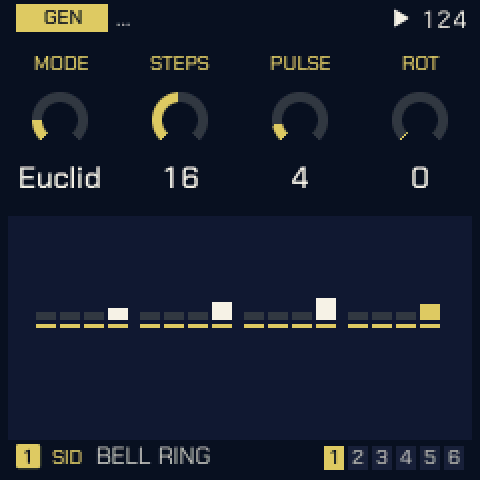
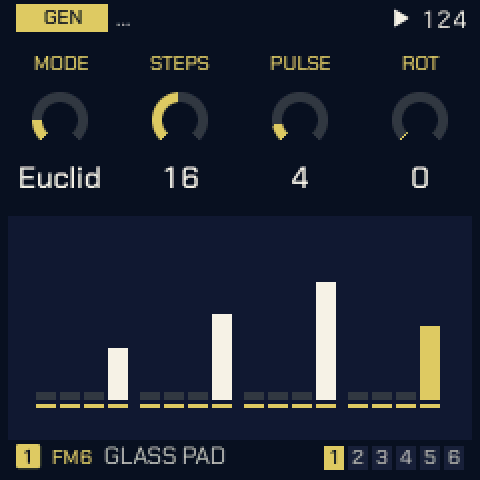
Gallery: the 2.0 screens in the device engine set
gallery_render renders 36 screens with FM6, TRIO and DRUM (no SID, PHYS,
CZ-1 or Prophet): every generator, the OCT+ layers, STEP EVOLVE, LENGTH,
MATRIX, the help card, FM6, TRIO, DRUM, PATTERNS and MIXER. edit_sid goes.

Claude-Session: https://claude.ai/code/session_01BpfmmeNBDntHrx6VWUu9nH

Changed region(s): [[0.0625, 0.625, 0.9375, 0.875], [0.0938, 0.9062, 0.4688, 0.9688], [0.6562, 0.5625, 0.7188, 0.625]]

diff --git a/tests/gallery_render.c b/tests/gallery_render.c
@@ -1,28 +1,34 @@
 /* SPDX-License-Identifier: GPL-3.0-only */
-/* The README's Visual Reference Gallery: the real drawing code (tests/ui_render.c's scenes) in the release's
- * engine set (no FM6, CZ-1 or Prophet), the default palette (SMALTI), as PPM in OUTDIR/ppm (240 x 240; the README's PNGs are these 2x, nearest).
- *   cc -O1 -w -DMELODEE_USB_AUDIO=1 -DMELODEE_FM6=0 -DMELODEE_CZ=0 -DMELODEE_PROPHET=0 \
+/* The README's Visual Reference Gallery and the manual's pictures: the real drawing code (tests/ui_render.c's scenes)
+ * in the device build's engine set (FM6, TRIO, DRUM: no SID, PHYS, CZ-1 or Prophet), the default palette (SMALTI),
+ * as PPM in OUTDIR/ppm (240 x 240; the PNGs in assets/gallery are these 2x, nearest).
+ *   cc -O1 -w -DMELODEE_USB_AUDIO=1 -DMELODEE_SID=0 -DMELODEE_PHYS=0 -DMELODEE_CZ=0 -DMELODEE_PROPHET=0 \
  *      -Ibuild/gen -Ifirmware/src -Itests -o build/gallery_render tests/gallery_render.c -lm
  *   mkdir -p build/gallery/ppm && build/gallery_render build/gallery
- * (README.md shows these as assets/gallery/<name>.png) */
+ * (README.md, MANUAL.md and the project page show these as assets/gallery/<name>.png) */
 #define UI_RENDER_NO_MAIN 1
 #include "ui_render.c"
 
-enum { G_SCENE, G_TRIO, G_PHYS, G_MODE_STEP, G_MODE_ARP, G_FORM };   /* (ARP: the same page, MODE Arp) */
+enum { G_SCENE, G_TRIO, G_MODE_STEP, G_MODE_ARP, G_FORM };   /* (ARP: the same page, MODE Arp) */
 typedef struct { const char *name; int kind; int scene; } gshot_t;
 static const gshot_t SHOTS[] = {
-    {"home", G_SCENE, S_HOME},
-    {"seq_mode", G_MODE_STEP, 0},
+    {"home", G_SCENE, S_HOME}, {"seq_mode", G_MODE_STEP, 0},
     {"gen_turing", G_SCENE, S_GEN_TURING}, {"gen_euclid", G_SCENE, S_GEN_EUCLID},
     {"gen_markov", G_SCENE, S_GEN_MARKOV}, {"gen_morph", G_SCENE, S_GEN_MORPH},
-    {"gen_grids", G_SCENE, S_GEN_GRIDS}, {"gen_bounce", G_SCENE, S_GEN_BOUNCE},
+    {"gen_grids", G_SCENE, S_GEN_GRIDS}, {"gen_grids_oct", G_SCENE, S_GEN_GRIDS_OCT},
+    {"gen_bounce", G_SCENE, S_GEN_BOUNCE}, {"gen_fall", G_SCENE, S_GEN_FALL},
     {"gen_awake", G_SCENE, S_GEN_AWAKE}, {"gen_poly", G_SCENE, S_GEN_POLY},
-    {"gen_evolve", G_SCENE, S_GEN_EVOLVE}, {"gen_tweak", G_SCENE, S_GEN_TWEAK},
-    {"gen_tweak2", G_SCENE, S_GEN_TWEAK2}, {"organic", G_SCENE, S_ORGANIC},
-    {"mods_live", G_SCENE, S_MODS_LIVE_GEN}, {"matrix", G_SCENE, S_MATRIX},   /* (1.3.3: TWEAK 2, ORGANIC, live mods) */
-    {"mod_shortcut", G_SCENE, S_MOD_SHORTCUT}, {"cords", G_SCENE, S_CORDS},
-    {"help", G_SCENE, S_HELP}, {"form", G_FORM, 0},
-    {"edit_sid", G_SCENE, S_EDIT_SID}, {"edit_trio", G_TRIO, 0}, {"edit_phys", G_PHYS, 0},
+    {"gen_quad", G_SCENE, S_GEN_QUAD}, {"gen_constel", G_SCENE, S_GEN_CONSTEL},
+    {"gen_series", G_SCENE, S_GEN_SERIES}, {"gen_chord", G_SCENE, S_GEN_CHORD},
+    {"gen_chord_oct", G_SCENE, S_GEN_CHORD_OCT}, {"gen_chord_user", G_SCENE, S_GEN_CHORD_USER},
+    {"gen_evolve", G_SCENE, S_GEN_EVOLVE}, {"step_evolve", G_SCENE, S_GEN_STEP_EVOLVE},
+    {"form", G_FORM, 0}, {"gen_tweak", G_SCENE, S_GEN_TWEAK}, {"gen_tweak2", G_SCENE, S_GEN_TWEAK2_COIN},
+    {"gen_length", G_SCENE, S_GEN_LENGTH},
+    {"cords", G_SCENE, S_CORDS}, {"mods_live", G_SCENE, S_MODS_LIVE_GEN}, {"matrix", G_SCENE, S_MATRIX},
+    {"organic", G_SCENE, S_ORGANIC}, {"mod_shortcut", G_SCENE, S_MOD_SHORTCUT},
+    {"help", G_SCENE, S_HELP_ZOOM},
+    {"edit_fm6", G_SCENE, S_FM6_ALG5}, {"fm6_eg", G_SCENE, S_FM6_EG}, {"edit_trio", G_TRIO, 0},
+    {"drum", G_SCENE, S_DRUM}, {"patterns", G_SCENE, S_PATGRID}, {"mixer", G_SCENE, S_MIXER},
 };
 
 int main(int argc, char **argv)
@@ -41,7 +47,7 @@ int main(int argc, char **argv)
         } else if (g->kind == G_FORM) {                 /* FORM: TURING's track, its sections */
             setup(S_GEN_TURING);
             go_title("FORM");
-        } else { setup(S_EDIT_SID); eng(g->kind == G_TRIO ? 6u : ENGI_PHYS); go_title("EDIT 1"); }
+        } else { setup(S_HOME); eng(6u); go_title("EDIT 1"); }   /* TRIO */
         pal(UI_DEFAULT_INDEX);
         draw(g->kind == G_SCENE ? g->scene : -1);
         write_ppm(out, UI_PALETTES[UI_DEFAULT_INDEX].name, g->name);

diff --git a/RECIPES.md b/RECIPES.md
@@ -1,0 +1,279 @@
+# Tessera recipes and tips
+
+Short, tested ways to get somewhere with Tessera 2.0. Each uses only what the firmware has; the page and knob names
+are the ones on the screen, and [MANUAL.md](MANUAL.md) explains each page in full. Where a step names a page, tap
+the button in brackets until it shows: GEN, EVOLVE, FORM, TWEAK, TWEAK 2 and LENGTH are under **SEQ**, MODS, MATRIX
+and ORGANIC under **LFO**, SCL and CHORD under **SCL**.
+
+**Recipes**
+
+- [A first generative patch in a minute](#a-first-generative-patch-in-a-minute)
+- [A drone that breathes](#a-drone-that-breathes)
+- [Chords that lead, melodies that follow (QNT CHRD)](#chords-that-lead-melodies-that-follow-qnt-chrd)
+- [Your own progression (CHORD USER)](#your-own-progression-chord-user)
+- [Two tracks answering each other (BRANCH)](#two-tracks-answering-each-other-branch)
+- [A harmony line that follows (FOLLOW)](#a-harmony-line-that-follows-follow)
+- [Grids: a groove with fills](#grids-a-groove-with-fills)
+- [Grids: variations that repeat (FORM)](#grids-variations-that-repeat-form)
+- [Grids: movement that repeats (an LFO on X or Y)](#grids-movement-that-repeats-an-lfo-on-x-or-y)
+- [Polyrhythms: POLY and QUAD](#polyrhythms-poly-and-quad)
+- [Notes that travel between tracks (QUAD columns)](#notes-that-travel-between-tracks-quad-columns)
+- [A melody you can come back to (CONSTELLATION)](#a-melody-you-can-come-back-to-constellation)
+- [A slow lead from the infinity series (SERIES)](#a-slow-lead-from-the-infinity-series-series)
+- [Leaves in the wind (FALL)](#leaves-in-the-wind-fall)
+- [Pads from sparse notes (LENGTH HIT)](#pads-from-sparse-notes-length-hit)
+- [Entries and arrangements (COND and FORM)](#entries-and-arrangements-cond-and-form)
+- [From generator to pattern (print, then STEP EVOLVE)](#from-generator-to-pattern-print-then-step-evolve)
+- [Movement over minutes (SLOTH and OCHD)](#movement-over-minutes-sloth-and-ochd)
+- [Driving another synth (MIDI OUT)](#driving-another-synth-midi-out)
+
+**[Tips](#tips)**
+
+---
+
+## A first generative patch in a minute
+
+1. Power on. Track 1 is **GLASS PAD**, track 2 **STRINGS**, track 3 **BELLS**, track 4 the **808 KIT**.
+2. Track 3 (BELLS): **SEQ** for GEN, **MODE** to **TURING**. Press **PLAY**: a looping melody in the track's scale.
+3. **PROB** at about 20: the loop changes a little each time round. At 0 (Lock) it holds.
+4. Track 4: MODE **GRIDS**, **DENS** at 50. A drum groove under it.
+5. Track 3 again, **EVOLVE**: turn **ROLL** a click at a time until you like the line. The number is its seed: write
+   it down and you can always come back to it.
+6. **SCL** on track 3 to change the scale; the generator follows at once.
+
+## A drone that breathes
+
+A held chord that changes slowly, for ambient beds.
+
+1. Track 1 (GLASS PAD): GEN, MODE **CHORD**, **PROG DRONE** (the I chord alone), **BARS 4**, **HIT HOLD**.
+2. Hold **OCT+** on GEN: **CHRD DIA7** (a seventh in the scale), **VOICING OPEN**, **OCTAVES −1** for weight.
+3. **MODS**: a cord from **T1 TORPOR** (SLOTH's slowest circuit) to **T1 CUTOFF**, amount about +30 %.
+4. A second cord from **T1 OCHD 2** to **T1 PAN**, about +20 %: the pad drifts across the stereo field.
+5. For a drone that moves through the scale, set PROG to **WALK**: four chords from the seed, and EVOLVE (EVERY 8,
+   AMOUNT 30) changes one now and then.
+
+## Chords that lead, melodies that follow (QNT CHRD)
+
+1. Track 2 (STRINGS): MODE **CHORD**, **PROG POP**, **BARS 1**, **HIT BEAT**.
+2. Track 3 (BELLS): MODE **MARKOV**, **LEAP 30**, **DENS 60**.
+3. On track 3, **SCL**: **QNT** to **CHRD**. Its notes now snap to the chord track 2 plays, so the melody always
+   fits the harmony. The keys and MIDI input snap too, so you can play along on track 3.
+4. Try PROG **2-5-1** or **CIRCLE** for a jazzier walk; the melody follows every change.
+
+## Your own progression (CHORD USER)
+
+1. A CHORD track: **PROG USER**.
+2. Hold **OCT+** on GEN and play the roots on the keys, one key a chord: for example C, A, F, G. The keys are silent
+   while you enter. Notes outside the scale round down into it.
+3. Let OCT+ go. LENGTH (KNOB 4 with OCT+ held) is now 4; shorten it to leave the last chords out.
+4. The chords' kind comes from **CHRD** (OCT+ layer, KNOB 2): OFF for triads, **DIA7** for sevenths.
+
+## Two tracks answering each other (BRANCH)
+
+1. Two melodic tracks, for example track 1 GLASS PAD and track 3 BELLS. Track 3: MODE **TURING**.
+2. Track 3, **TWEAK 2**: **TO** to **T1 COIN**, **BRANCH 40 %**. About four hits in ten now play on the pad.
+3. **TOGGLE** instead of COIN alternates: at 100 % every other hit goes across, a strict call and response.
+4. **LATCH** tosses once a bar: whole bars swap between the two sounds.
+5. The tosses replay with the seed. A cord from an **OCHD** to **BRANCH** sweeps how often hits cross over.
+
+## A harmony line that follows (FOLLOW)
+
+1. Track 3 plays a generator melody.
+2. Track 2: any generator, then **TWEAK**: **FOLLOW T3**, **SHIFT +2**. Track 2 plays track 3's pitches two scale
+   steps up, in its own scale and its own rhythm.
+3. **SHIFT −7** for a line an octave below in a seven-note scale. **DROP 50** thins the harmony so it only answers
+   now and then.
+
+## Grids: a groove with fills
+
+1. Track 4 (808 KIT): MODE **GRIDS**, **X** and **Y** where you like the groove, **DENS 60**.
+2. Hold **OCT+** on GEN: **TOMS 40** brings in the hits the kick and snare only just miss, so fills follow the
+   groove. Press a **black key** (still holding OCT+) to put that part on **CLAP**, **OPEN HAT**, **RIM** or **BELL**
+   instead.
+3. Still holding OCT+: **HAT 30** thins the hats, **KICK 100** keeps the kick full.
+4. **TWEAK 2**: **COND 4:4** on a second GRIDS track, with the fourth part on CLAP and DENS high, gives a fill on
+   every fourth bar only.
+
+## Grids: variations that repeat (FORM)
+
+FORM turns a GRIDS track into a short song form: sections A, B and C, each a point on the Grids map, played in an
+order such as AABA. A section played again comes back exactly, so the variations repeat.
+
+1. GEN: **MODE GRIDS**; set **X** and **Y** (where on the map) and **DENS** (how full). This is section A.
+2. EVOLVE: **EVERY** sets how long each section lasts: 1, 2, 4, 8 or 16 bars. (Turning FORM on with EVERY OFF sets
+   4 bars.)
+3. FORM: **FORM** picks the order: AB, ABAC, ABCB, AABA, ABCA or AABC. The whole form lasts the sections times
+   EVERY: AB at 2 bars repeats every 4 bars, AABA at 4 bars every 16.
+4. FORM: **CONTR** (contrast) sets how far a new section moves from the one before: low, a small change of pattern;
+   high, a different groove.
+5. For exact repeats, take out the other randomness: EVOLVE **LOCK** at 100 (for GRIDS, LOCK is CHAOS turned round:
+   100 is no chaos), and TWEAK **DROP** and **HUMAN** at 0. A lower LOCK brings back a little variation in every bar
+   on top of the form.
+6. FORM **FLRSH**, TWEAK **SHIFT** and **FOLLOW** do nothing on a GRIDS track (they would change which drum plays).
+
+Shaping the sections by hand:
+
+- While a section plays, turn **X** and **Y**: the section keeps where you leave them and plays from there every
+  time it comes round. (DENS is one setting for the whole track, not per section.)
+- FORM **CLEAR** forgets B and C: the section playing becomes A, and B and C are made again from it by CONTR when
+  they are next reached.
+- **ROLL** on EVOLVE picks the track's seed, which decides how B and C are pushed away from A.
+
+EVOLVE without FORM (EVERY and AMOUNT set, FORM OFF) is the other way round: every EVERY bars X and Y take a random
+step of up to AMOUNT, so the groove keeps wandering and does not come back.
+
+## Grids: movement that repeats (an LFO on X or Y)
+
+A cord from an LFO synced to the bars moves the point across the map in a loop, the same every time. FORM can be on
+as well: the sections set the point, the LFO moves around it.
+
+1. On the GRIDS track, the LFO pages:
+   - **LFO 2**: **SYNC** to **4BAR**, **2BAR** or **1/1** (the loop's length); **TRIG** to **FREE**. TRIG NOTE (the
+     default) restarts the LFO with every note, and a drum track plays nearly every step, so the LFO would hardly
+     move. FREE starts it on PLAY and keeps it in time with the bars.
+   - **LFO**: **WAVE** SIN or TRI sweeps back and forth; SAW ramps and jumps back; SQR swaps between two points (an
+     A/B change every half loop). **PHS** sets where in its loop it starts. **FADE** at 0.
+   - **LFO DEST**: leave PIT, FLT, SHP and AMP at 0, so the LFO moves only the cord, not the drum sound.
+2. **MODS**: a cord with source **LFO** (this track's), destination **G X** (or **G Y**, **G DENS**, **G TOMS**) on
+   this track, and an amount: how far it moves X from the knob's setting.
+3. For a figure on the map, move X and Y with two different loops: a second cord from another track's LFO (with its
+   own SYNC, say 2BAR against 4BAR) to **G Y**. With that track's LFO DEST at 0 its sound stays as it is.
+
+Not for repeating: **DRIFT** wanders freely, and **RAND** and the LFO's **S&H** wave pick new values. They make a
+groove that keeps changing, which is the other use.
+
+## Polyrhythms: POLY and QUAD
+
+**Inside one track (POLY):**
+
+1. MODE **POLY**. Its four notes step on whenever one of its rhythms fires. By default rhythm 1 is **/4** and
+   rhythm 2 **/3**: 4 against 3.
+2. **RHY 3**, then **DIVISION /5**: a third rhythm against the other two. Where rhythms land together the note
+   plays once, louder, so the accents show the pattern.
+3. **SPAN 2** spreads the four notes over two octaves.
+
+**Across tracks (QUAD):**
+
+1. Tracks 1, 2 and 3: MODE **QUAD**. They share one 4 x 4 grid of notes, a row each.
+2. Give each a different **DIV** on **PATTERN**: 1/16, 8T and 1/8. Each plays its row at its own speed, and the
+   rows drift against each other.
+3. Track 3: **DIR PEND** (back and forth) or **RAND**.
+
+## Notes that travel between tracks (QUAD columns)
+
+1. Two or more tracks in **QUAD**, as above.
+2. Hold **OCT+** on GEN. KNOB 1 picks a column, KNOB 2 its **MOVE** (**DOWN**: each note moves a track down,
+   track 4's to track 1), KNOB 3 its **EVERY** (/4: every four steps of the first QUAD track).
+3. Set a different MOVE on another column (UP, or RAND). A phrase on one track now turns up on the next a few beats
+   later, as a canon.
+4. **RANGE** (KNOB 4 on the layer) **1 OCT** folds every row into one octave from the root: tighter, more like a
+   riff.
+5. **LINK** on GEN: a fast QUAD track pulls slower ones along. With DIR **HOLD** a track plays only when the linked
+   one moves it.
+
+## A melody you can come back to (CONSTELLATION)
+
+1. MODE **CONSTL**, **DENS 60**, **SPEED 1/16**. The stars that cross the crosshair play.
+2. Hold **OCT+**: **SIZE 3** catches stars three rows either side, for wider leaps. **LEN 8** and **LOCK 70**: most
+   steps now play the eight-step loop of stars already caught, so a phrase forms and repeats with small changes.
+3. **FILL ARP** fills the steps between stars with the last four stars, low to high and softer.
+4. Let the ship steer itself: **MODS**, a cord with no source (`--`) to **C AUTO** on this track, offset to taste:
+   low values wander slowly, **SEEK** flies to the next star.
+5. **Y** sets where the melody sits; a slow LFO or OCHD on **C Y** moves it up and down the sky.
+
+## A slow lead from the infinity series (SERIES)
+
+1. MODE **SERIES** on a lead sound (BELLS or an FM6 tine). PATTERN **DIV 1/8** or slower.
+2. **INTV 1**: close, stepwise lines. **INTV 3** or **4**: wider leaps (folded back into two octaves).
+3. **LOOP OFF** never repeats; **LOOP 8** repeats eight notes as a motif. EVOLVE (EVERY 8) picks new STARTs, so the
+   motif moves on now and then.
+4. **LENGTH** page: **HIT**, so each note rings until the next one.
+
+## Leaves in the wind (FALL)
+
+1. MODE **BOUNCE**, **BALLS** turned past 4 to **Fall**. Eight leaves fall and play where they land: left low, right
+   high, one in seven an octave down.
+2. **ANGLE** is now **WIND**: the middle is calm; turning it leans the melody low or high. Further out, gusts send the
+   leaves down together, in bursts.
+3. **MODS**: a cord from an **OCHD** (OCHD 3, about 25 s a turn) to **B ANGLE**: the wind rises and falls.
+4. **SPEED** slower (10 to 20) for a sparse, rain-like part.
+
+## Pads from sparse notes (LENGTH HIT)
+
+1. Any generator on a pad sound (GLASS PAD, STRINGS). Set **DENS** or **PROB** so it plays few notes.
+2. **LENGTH** page: **LENGTH HIT**. Each note holds until the next hit, so rests let notes ring and the line turns
+   into a slowly changing pad.
+3. For plucks instead: **FIXED**, **LEN 1/16**, **KEYS 2**.
+
+## Entries and arrangements (COND and FORM)
+
+1. Give two tracks the same **EVERY** (EVOLVE) and turn **FORM** on both, for example AABA on the drums and ABAC on
+   the bass. Their sections change together.
+2. **TWEAK 2**, **COND**: **!FIRST** keeps a track silent for the first bar after PLAY (or each section start, with
+   FORM on), so it enters late. **1:4** plays only on the first bar of every four; **4:4** only on the last, for a
+   turnaround.
+3. **CONTR** high on the bass and low on the drums: the bass moves a lot between sections, the groove only a little.
+4. **FLRSH +7** on a melodic track moves the notes on the last beat of every phrase up a fifth, a small pickup into
+   the next.
+
+## From generator to pattern (print, then STEP EVOLVE)
+
+1. Let a generator play until you hear a line you like.
+2. Hold **REC**: its last bars go into the track's STEP pattern (PRINTED), and the track switches to STEP and plays
+   on without a gap. Hold **EDIT** to undo, which brings the generator back.
+3. Now it is ordinary steps: edit notes on **NOTES**, or the keys.
+4. **EVOLVE** (STEP EVOLVE): **AMOUNT 30**, **EVERY 2**, **LOCK 50**. The steps you wrote are varied as they play:
+   a note moved, one dropped, a ghost note. The steps themselves do not change.
+5. Like a variation? Hold **REC** to keep it (KEPT n STEPS). **CLEAR** goes back to the steps as written.
+
+## Movement over minutes (SLOTH and OCHD)
+
+1. **LFO** to **ORGANIC** on any track: **SPEED** and **RATE** at 50 to start.
+2. **MODS**: **T1 APATHY** (about a minute a turn) to **T2 CUTOFF**; **T1 INERTIA** (about 3 minutes) to **T3 FX
+   SEND**; **T1 OCHD 5** (about 10 s) to **T4 G DENS**.
+3. Press **OCT+** on a mod to make it **UNI**: it moves only up from the knob, never below, which is often what you
+   want for FX SEND and density.
+4. **MATRIX** shows the patch at a glance: rows are sources, columns destinations, lit as they move.
+5. Because PLAY restarts SLOTH and OCHD from the seed, the same project unfolds the same way each time.
+
+## Driving another synth (MIDI OUT)
+
+1. Hold **HOME** for the menu: **MIDI OUT** to **ALL**. The steps, the ARP and every generator now go out over USB
+   MIDI, each track on its own channel (1 to 4 with GLO > SYSTEM ROUT at CH1-4; the drum track on its DRUM channel).
+2. **CLOCK OUT** on: the other synth or DAW follows Tessera's tempo, START and STOP included.
+3. Turn the track's **LEVEL** down on the MIXER if you only want to hear the other synth.
+
+---
+
+## Tips
+
+**Finding your way**
+
+- Hold **ARP** and turn any knob for its help card. Keep turning the same knob to make the text larger or scroll it.
+- **EDIT** on an EDIT page opens the map of the sound's pages: KNOB 1 across, KNOB 2 down, OCT+ opens. Any other
+  page button leaves it for its own page.
+- In lists (the menu, SCL, VOICE, sheets), **KNOB 1 picks the row and KNOB 2 changes it**.
+- Prefer the left knob for picking tracks? MENU > **TRACK KNOB LEFT**.
+
+**Seeds and repeatability**
+
+- The small number on **ROLL** is the track's seed. Note the ones you like: the same seed with the same settings
+  always plays the same line.
+- **PLAY** restarts every generator's random choices, and SLOTH and OCHD, from the top: with EVERY OFF a project
+  sounds the same every time. Set EVERY to let it drift.
+- On TURING, **PROB 0** (Lock) freezes the loop you are hearing; turn it up a little to let it evolve again.
+
+**Mods**
+
+- Hold **FX** and turn a knob for the quickest mod: it makes the cord for you. Turn SELECT while FX is held to pick
+  another source.
+- A cord with no source (`--`) is a fixed offset: use it to set things that have no knob, such as **C AUTO**.
+- A knob with a mod on it shows a moving mark: you can see what the cords are doing without opening MODS.
+- **OCT+** on MATRIX jumps straight to that cord in MODS.
+
+**Saving and safety**
+
+- **SAVE + REC** saves the project to its slot at once (stopping playback first).
+- **EDIT held + OCT-** undoes, **+ OCT+** redoes.
+- If your FM-1 crashes with the standard firmware, use the `-1core` build. After a crash, MENU > ABOUT shows what
+  happened until power-off: please add a photo of it to a bug report.
